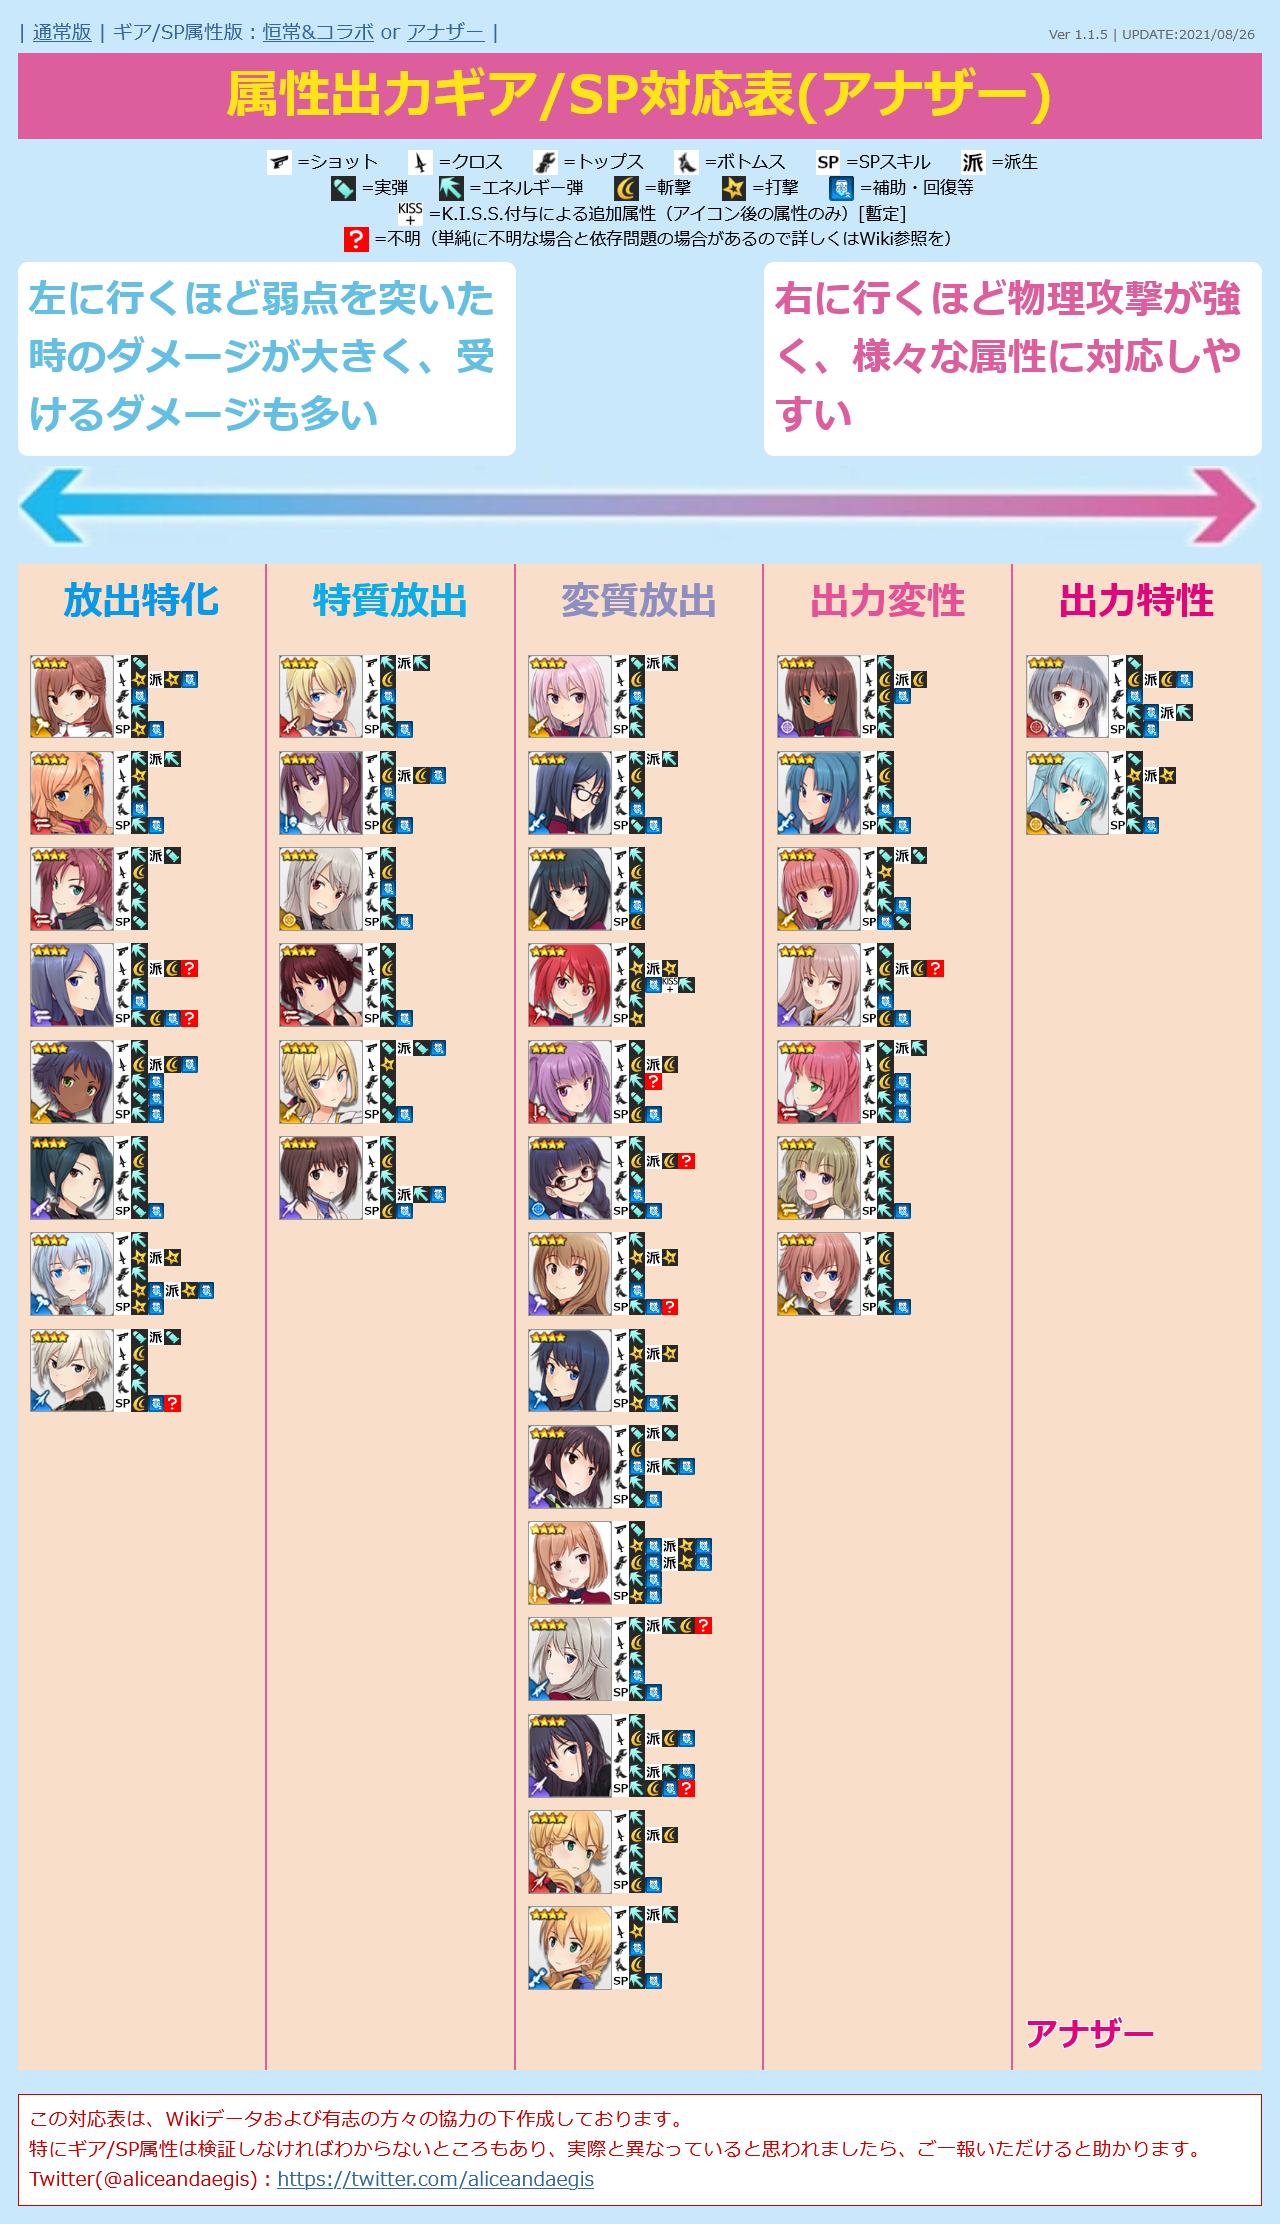
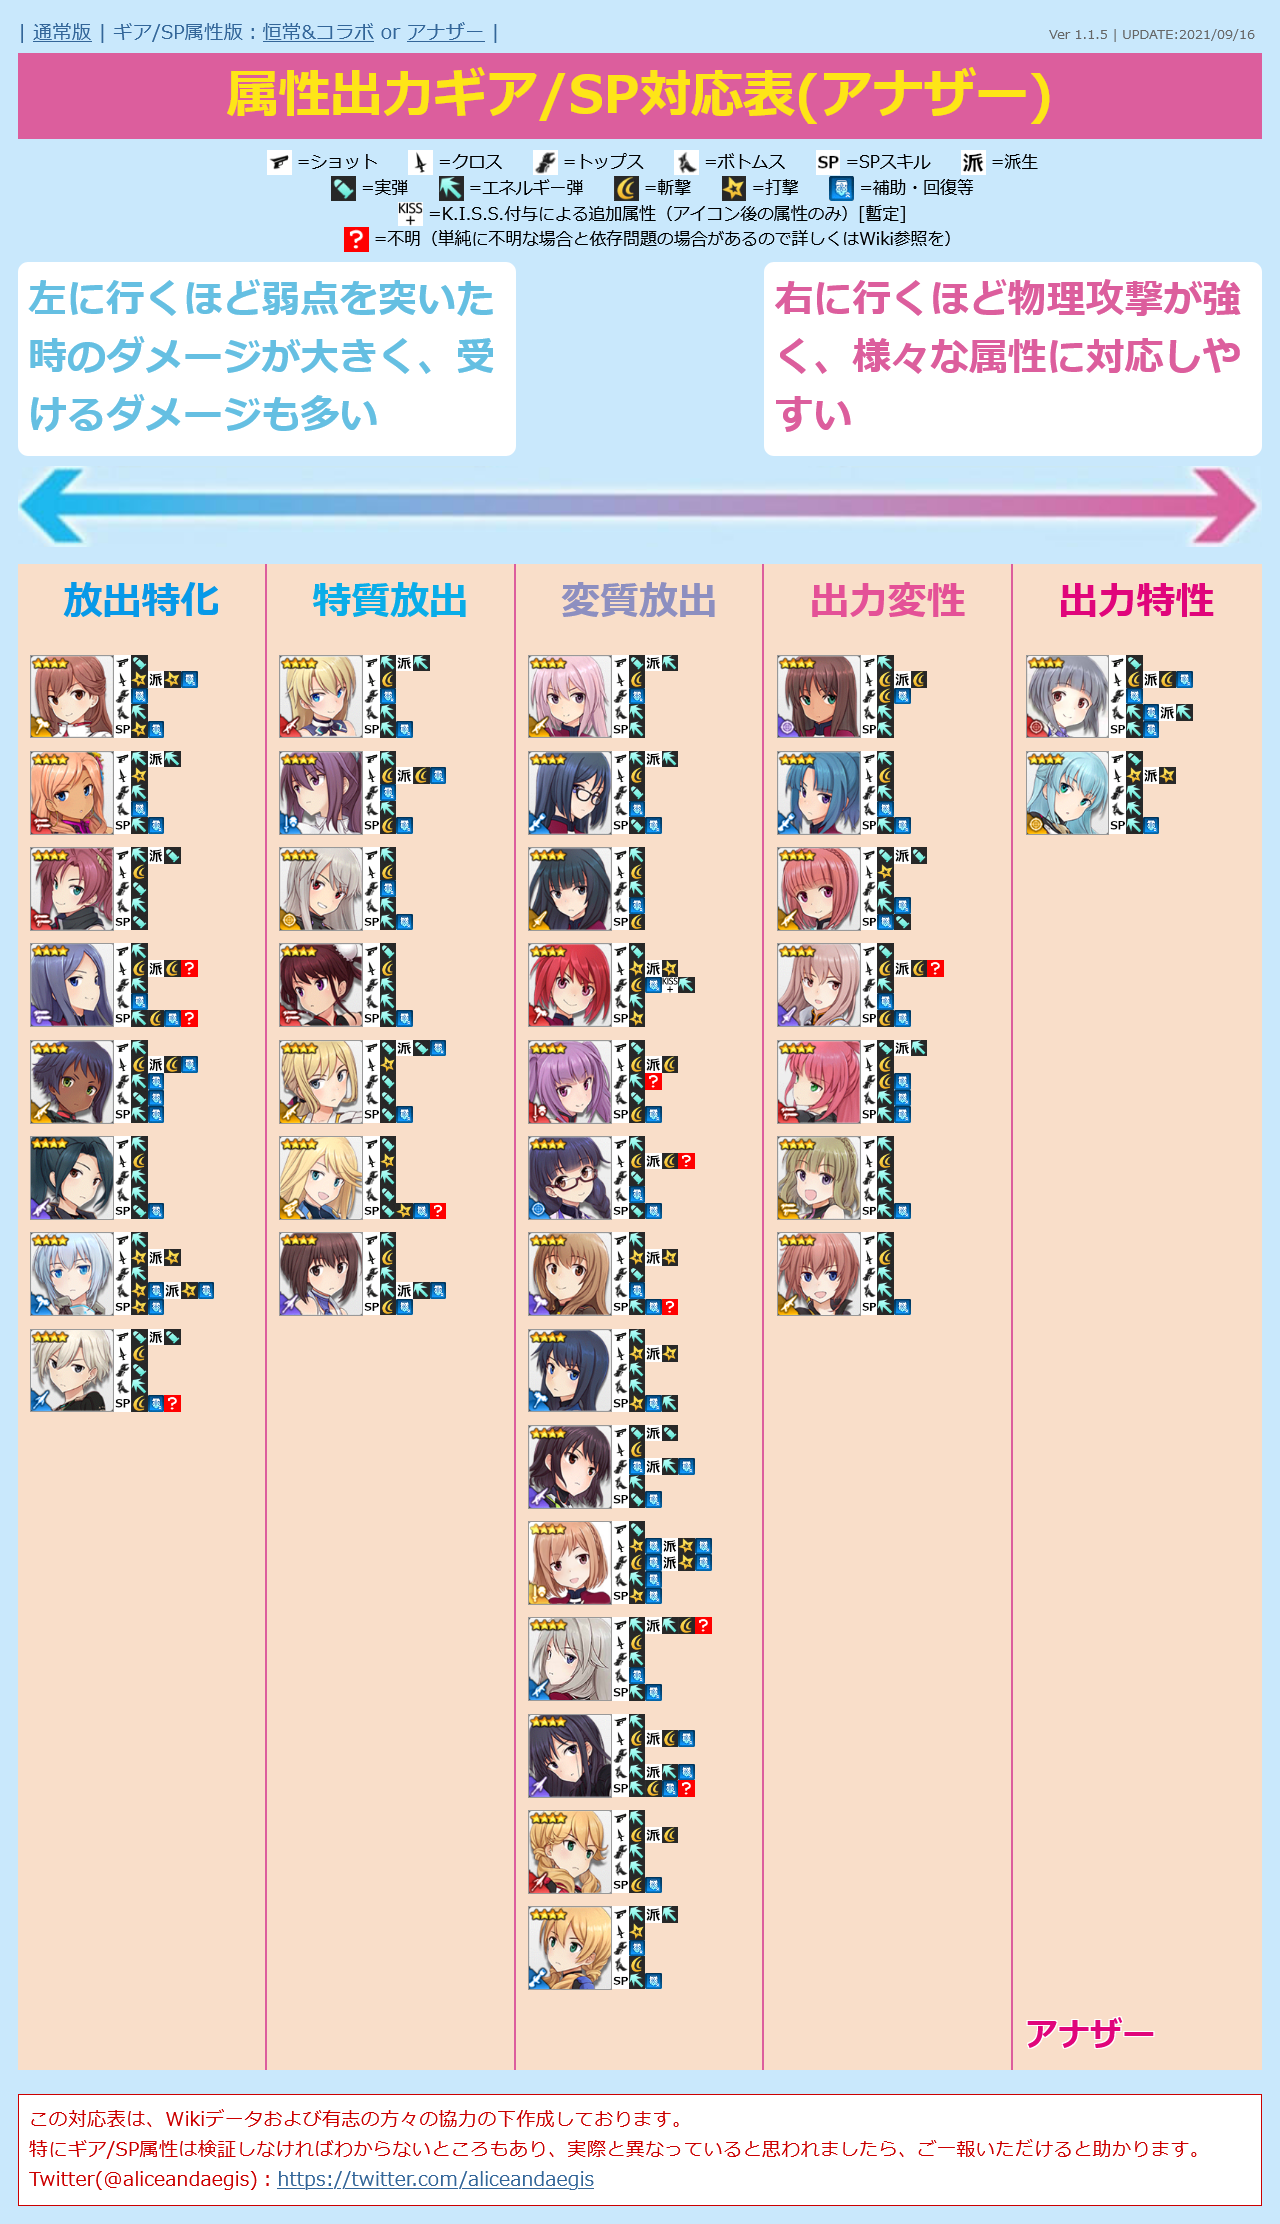
UPDATE charadata
・アナザー シャーリー・オークレイ / 撃壌を追加

Changed region(s): [[0.2188, 0.4964, 0.3438, 0.5895]]

diff --git a/alice.html b/alice.html
@@ -12,7 +12,7 @@
   <script>
 
 /* 更新情報 必要に応じて書き換えてください */
-  var version = "Ver 1.1.5 | UPDATE:2021/08/26";
+  var version = "Ver 1.1.5 | UPDATE:2021/09/16";
 
 
 /*
@@ -991,6 +991,20 @@
       "category": ""
     },
     {
+      "id": "35",
+      "type": "2",
+      "src": "another-shirley.png",
+      "name": "シャーリー・オークレイ / 撃壌",
+      "equip1": "1",
+      "equip2": "4",
+      "equip3": "2",
+      "equip4": "1",
+      "sp": "145?",
+      "attr": "1",
+      "link": "https://wikiwiki.jp/alicegear/%E3%82%B7%E3%83%A3%E3%83%BC%E3%83%AA%E3%83%BC%E3%83%BB%E3%82%AA%E3%83%BC%E3%82%AF%E3%83%AC%E3%82%A4%E6%92%83%E5%A3%8C",
+      "category": "10"
+    },
+    {
       "id": "36",
       "type": "2",
       "src": "normal-mirie.png",
@@ -1444,7 +1458,7 @@
       "src": "normal-yoshika.png",
       "name": "宮藤 芳佳",
       "equip1": "1",
-      "equip2": "4",
+      "equip2": "4/4",
       "equip3": "5",
       "equip4": "1",
       "sp": "5",
@@ -1457,7 +1471,7 @@
       "type": "3",
       "src": "normal-linette.png",
       "name": "リネット・ビショップ",
-      "equip1": "1",
+      "equip1": "1/1",
       "equip2": "4",
       "equip3": "1",
       "equip4": "1",
@@ -1472,7 +1486,7 @@
       "src": "normal-barkhorn.png",
       "name": "ゲルトルート・バルクホルン",
       "equip1": "1",
-      "equip2": "4",
+      "equip2": "4/4",
       "equip3": "5",
       "equip4": "1",
       "sp": "4",
@@ -1485,7 +1499,7 @@
       "type": "3",
       "src": "normal-hartmann.png",
       "name": "エーリカ・ハルトマン",
-      "equip1": "1",
+      "equip1": "1/15",
       "equip2": "4",
       "equip3": "3",
       "equip4": "1",
@@ -1501,8 +1515,8 @@
       "name": "坂本 美緒",
       "equip1": "1",
       "equip2": "3",
-      "equip3": "53?",
-      "equip4": "135?",
+      "equip3": "53",
+      "equip4": "15?",
       "sp": "3",
       "attr": "3",
       "link": "https://wikiwiki.jp/alicegear/%E5%9D%82%E6%9C%AC%E7%BE%8E%E7%B7%92",
@@ -1515,9 +1529,9 @@
       "name": "ペリーヌ・クロステルマン",
       "equip1": "1",
       "equip2": "3",
-      "equip3": "2?",
+      "equip3": "2",
       "equip4": "15?",
-      "sp": "2?",
+      "sp": "2",
       "attr": "1",
       "link": "https://wikiwiki.jp/alicegear/%E3%83%9A%E3%83%AA%E3%83%BC%E3%83%8C%E3%83%BB%E3%82%AF%E3%83%AD%E3%82%B9%E3%83%86%E3%83%AB%E3%83%9E%E3%83%B3",
       "category": "99"
